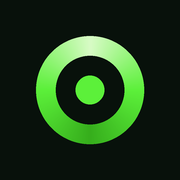
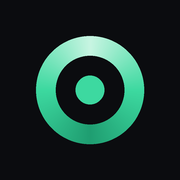
style: tone palette down to graphite + mint
Neutral graphite surfaces replace the green-tinted ones and a soft mint
accent replaces the neon green; glows are toned down. Layout, components
and chart encodings are unchanged; income/spending still pass the CVD check.

Claude-Session: https://claude.ai/code/session_01R85EYwazABK3qBrDVakCnf

Changed region(s): [[0.1944, 0.1944, 0.8056, 0.8056], [0.4167, 0.4167, 0.5833, 0.5833]]

diff --git a/frontend/src/pages/LandingPage.tsx b/frontend/src/pages/LandingPage.tsx
@@ -105,7 +105,7 @@ function Pill({ children, tone = 'dark' }: { children: ReactNode; tone?: 'dark' 
         tone === 'dark' ? 'border border-line-strong bg-surface-2/70 text-text-secondary backdrop-blur' : 'bg-forest/8 text-forest/70'
       )}
     >
-      <span className="h-1.5 w-1.5 rounded-full bg-primary-500 shadow-[0_0_8px_#5cf03a]" />
+      <span className="h-1.5 w-1.5 rounded-full bg-primary-500 shadow-[0_0_8px_#3dd9a0]" />
       {children}
     </span>
   )
@@ -124,7 +124,7 @@ function DashboardMock() {
         <span className="ml-3 rounded-full bg-surface-2 px-3 py-1 text-[10px] text-text-tertiary">pennywise.app/dashboard</span>
       </div>
       <div className="grid gap-3 p-4 sm:grid-cols-3 sm:p-5">
-        <div className="rounded-2xl bg-[radial-gradient(120%_120%_at_100%_0%,rgba(92,240,58,0.2),transparent_55%),var(--color-surface-2)] p-4 sm:col-span-2">
+        <div className="rounded-2xl bg-[radial-gradient(120%_120%_at_100%_0%,rgba(61,217,160,0.2),transparent_55%),var(--color-surface-2)] p-4 sm:col-span-2">
           <p className="text-[10px] uppercase tracking-widest text-text-tertiary">Net cash flow · October</p>
           <p className="display mt-1 text-4xl text-text-primary sm:text-5xl">+$1,847</p>
           <div className="mt-3 flex gap-2 text-[10px]">
@@ -133,7 +133,7 @@ function DashboardMock() {
           </div>
           <div className="mt-4 flex h-20 items-end gap-1.5">
             {bars.map((h, i) => (
-              <div key={i} className="flex-1 rounded-t-[4px]" style={{ height: `${h}%`, background: i === bars.length - 1 ? '#5cf03a' : 'var(--color-line-strong)' }} />
+              <div key={i} className="flex-1 rounded-t-[4px]" style={{ height: `${h}%`, background: i === bars.length - 1 ? '#3dd9a0' : 'var(--color-line-strong)' }} />
             ))}
           </div>
         </div>
@@ -141,7 +141,7 @@ function DashboardMock() {
           <div className="relative h-24 w-24">
             <svg viewBox="0 0 100 100" className="-rotate-90">
               <circle cx="50" cy="50" r="42" stroke="var(--color-surface-3)" strokeWidth="9" fill="none" />
-              <circle cx="50" cy="50" r="42" stroke="#5cf03a" strokeWidth="9" fill="none" strokeLinecap="round" strokeDasharray="264" strokeDashoffset="58" style={{ filter: 'drop-shadow(0 0 6px #5cf03a88)' }} />
+              <circle cx="50" cy="50" r="42" stroke="#3dd9a0" strokeWidth="9" fill="none" strokeLinecap="round" strokeDasharray="264" strokeDashoffset="58" style={{ filter: 'drop-shadow(0 0 6px #3dd9a088)' }} />
             </svg>
             <span className="display absolute inset-0 flex items-center justify-center text-3xl text-text-primary">78</span>
           </div>
@@ -210,13 +210,13 @@ function LifecycleMock({ kind }: { kind: (typeof LIFECYCLE)[number]['mock'] }) {
   return (
     <div className="rounded-2xl bg-surface-2 p-4">
       <svg viewBox="0 0 240 110" className="w-full">
-        <path d="M10 85 L50 78 L90 74 L130 66 L170 60" stroke="#5cf03a" strokeWidth="2.5" fill="none" strokeLinecap="round" />
-        <path d="M170 60 L220 48 L220 30 L170 60 L220 66 Z" fill="#5cf03a" opacity="0.14" />
-        <path d="M170 60 L220 48" stroke="#5cf03a" strokeWidth="2.5" strokeDasharray="5 5" />
+        <path d="M10 85 L50 78 L90 74 L130 66 L170 60" stroke="#3dd9a0" strokeWidth="2.5" fill="none" strokeLinecap="round" />
+        <path d="M170 60 L220 48 L220 30 L170 60 L220 66 Z" fill="#3dd9a0" opacity="0.14" />
+        <path d="M170 60 L220 48" stroke="#3dd9a0" strokeWidth="2.5" strokeDasharray="5 5" />
         {[10, 50, 90, 130, 170].map((x, i) => (
-          <circle key={x} cx={x} cy={[85, 78, 74, 66, 60][i]} r="3.5" fill="#5cf03a" />
+          <circle key={x} cx={x} cy={[85, 78, 74, 66, 60][i]} r="3.5" fill="#3dd9a0" />
         ))}
-        <circle cx="220" cy="48" r="5" fill="#08110b" stroke="#5cf03a" strokeWidth="2.5" />
+        <circle cx="220" cy="48" r="5" fill="#0b0c0f" stroke="#3dd9a0" strokeWidth="2.5" />
       </svg>
       <p className="display mt-1 text-3xl text-text-primary">$2,775</p>
       <p className="text-[11px] text-text-tertiary">November forecast · likely $2,377 – $3,173</p>
@@ -317,7 +317,7 @@ export function LandingPage() {
             <Pill>AI-powered personal finance · free</Pill>
           </div>
           <h1 className="display animate-fade-up mx-auto mt-6 max-w-5xl text-[56px] text-text-primary [animation-delay:80ms] sm:text-[88px] lg:text-[112px]">
-            Managing money in the age of <span className="text-primary-500 drop-shadow-[0_0_30px_rgba(92,240,58,0.45)]">AI</span>
+            Managing money in the age of <span className="text-primary-500 drop-shadow-[0_0_30px_rgba(61,217,160,0.45)]">AI</span>
           </h1>
           <p className="animate-fade-up mx-auto mt-6 max-w-xl text-base leading-relaxed text-text-secondary [animation-delay:160ms] sm:text-lg">
             Track spending and income, set budgets that know your pace, and see next month before it happens — with an assistant that explains every number.
@@ -356,7 +356,7 @@ export function LandingPage() {
 
       {/* ─── Meet Penny ─── */}
       <section id="penny" className="relative overflow-hidden px-5 py-28">
-        <div className="pointer-events-none absolute inset-0 bg-[radial-gradient(50%_40%_at_50%_30%,rgba(92,240,58,0.12),transparent_70%)]" />
+        <div className="pointer-events-none absolute inset-0 bg-[radial-gradient(50%_40%_at_50%_30%,rgba(61,217,160,0.12),transparent_70%)]" />
         <Reveal className="relative mx-auto max-w-6xl text-center">
           <Orb className="animate-float mx-auto w-48 sm:w-60" />
           <h2 className="display mt-12 text-5xl text-text-primary sm:text-7xl">
@@ -387,7 +387,7 @@ export function LandingPage() {
               </div>
             ))}
           </div>
-          <div className="flex flex-col justify-between rounded-[var(--radius-3xl)] border border-line bg-[radial-gradient(120%_100%_at_0%_100%,rgba(92,240,58,0.18),transparent_60%),var(--color-surface)] p-6">
+          <div className="flex flex-col justify-between rounded-[var(--radius-3xl)] border border-line bg-[radial-gradient(120%_100%_at_0%_100%,rgba(61,217,160,0.18),transparent_60%),var(--color-surface)] p-6">
             <div>
               <div className="flex items-center gap-2">
                 <LogoMark className="h-6 w-6" />
@@ -517,11 +517,11 @@ export function LandingPage() {
         <Reveal className="mx-auto max-w-6xl">
           <div className="relative overflow-hidden rounded-[var(--radius-3xl)] bg-primary-200 p-8 text-forest sm:p-14">
             <svg className="pointer-events-none absolute -right-10 top-0 h-full opacity-60" viewBox="0 0 300 300" fill="none" aria-hidden>
-              <circle cx="200" cy="150" r="120" stroke="#0b1a0f" strokeWidth="2" />
-              <circle cx="200" cy="150" r="80" stroke="#0b1a0f" strokeWidth="2" />
-              <circle cx="320" cy="150" r="10" fill="#0b1a0f" />
-              <circle cx="200" cy="30" r="10" fill="#0b1a0f" />
-              <circle cx="120" cy="150" r="10" fill="#0b1a0f" />
+              <circle cx="200" cy="150" r="120" stroke="#0d1b17" strokeWidth="2" />
+              <circle cx="200" cy="150" r="80" stroke="#0d1b17" strokeWidth="2" />
+              <circle cx="320" cy="150" r="10" fill="#0d1b17" />
+              <circle cx="200" cy="30" r="10" fill="#0d1b17" />
+              <circle cx="120" cy="150" r="10" fill="#0d1b17" />
             </svg>
             <div className="relative max-w-xl">
               <h2 className="display text-5xl sm:text-6xl">Built for the web today, iPhone next</h2>

diff --git a/frontend/src/index.css b/frontend/src/index.css
@@ -1,43 +1,43 @@
 @import "tailwindcss";
 
 /*
- * PennyWise design tokens — "forest + neon" (inspired by tomorro.com):
- * deep green-black surfaces, a single neon-green accent, heavy condensed uppercase display type,
+ * PennyWise design tokens — "graphite + mint" (layout language inspired by tomorro.com):
+ * neutral graphite surfaces, a single soft-mint accent, heavy condensed uppercase display type,
  * pill buttons, glowing ring "orbs", and cream contrast sections.
  */
 @theme {
-  /* Accent — neon green */
-  --color-primary-50: #f0feea;
-  --color-primary-100: #d8fbc6;
-  --color-primary-200: #b8f7a0;
-  --color-primary-300: #8ff46e;
-  --color-primary-400: #74f250;
-  --color-primary-500: #5cf03a;
-  --color-primary-600: #47d628;
-  --color-primary-700: #36ae1c;
-  --color-primary-800: #267a14;
-  --color-primary-900: #12380b;
+  /* Accent — soft mint */
+  --color-primary-50: #ecfbf5;
+  --color-primary-100: #d3f6e8;
+  --color-primary-200: #c8f5e2;
+  --color-primary-300: #8eebc8;
+  --color-primary-400: #62e2b3;
+  --color-primary-500: #3dd9a0;
+  --color-primary-600: #2cc48d;
+  --color-primary-700: #1f9e71;
+  --color-primary-800: #16714f;
+  --color-primary-900: #0b3a29;
 
-  /* Surfaces — forest black */
-  --color-bg: #08110b;
-  --color-surface: #0e1a12;
-  --color-surface-2: #142419;
-  --color-surface-3: #1b2f21;
-  --color-line: #1f3526;
-  --color-line-strong: #2c4834;
+  /* Surfaces — neutral graphite */
+  --color-bg: #0b0c0f;
+  --color-surface: #121418;
+  --color-surface-2: #191b20;
+  --color-surface-3: #20232a;
+  --color-line: #262a31;
+  --color-line-strong: #353a44;
 
   /* Light contrast sections */
   --color-cream: #f1f0e8;
   --color-cream-2: #e6e5da;
-  --color-forest: #0b1a0f;
+  --color-forest: #0d1b17;
 
   /* Text */
-  --color-text-primary: #f2f6ef;
-  --color-text-secondary: #a9b8ab;
-  --color-text-tertiary: #6f8274;
+  --color-text-primary: #f3f4f6;
+  --color-text-secondary: #a3a9b5;
+  --color-text-tertiary: #6c7380;
 
   /* Semantic */
-  --color-success-500: #5cf03a;
+  --color-success-500: #3dd9a0;
   --color-warning-500: #ffc24b;
   --color-warning-600: #e6a52a;
   --color-danger-400: #ff8a7d;
@@ -153,8 +153,8 @@
   50%      { transform: translateY(-10px); }
 }
 @keyframes pulse-ring {
-  0%   { box-shadow: 0 0 0 0 rgba(92, 240, 58, 0.45); }
-  100% { box-shadow: 0 0 0 14px rgba(92, 240, 58, 0); }
+  0%   { box-shadow: 0 0 0 0 rgba(61, 217, 160, 0.45); }
+  100% { box-shadow: 0 0 0 14px rgba(61, 217, 160, 0); }
 }
 
 /* ─── Animation utilities ─── */
@@ -222,7 +222,7 @@
 /* Soft green radial glow behind hero content */
 .glow-top {
   background:
-    radial-gradient(60% 50% at 50% 0%, rgba(92, 240, 58, 0.14) 0%, rgba(92, 240, 58, 0) 70%),
+    radial-gradient(60% 50% at 50% 0%, rgba(61, 217, 160, 0.09) 0%, rgba(61, 217, 160, 0) 70%),
     var(--color-bg);
 }
 
@@ -235,16 +235,16 @@
 .orb {
   border-radius: 9999px;
   background:
-    radial-gradient(circle at 50% 50%, #0b1a0f 52%, transparent 53%),
-    conic-gradient(from 0deg, #0b1a0f, #5cf03a 25%, #d8fbc6 32%, #36ae1c 45%, #0b1a0f 60%, #47d628 80%, #0b1a0f);
-  box-shadow: 0 0 60px rgba(92, 240, 58, 0.35), inset 0 0 40px rgba(0, 0, 0, 0.6);
+    radial-gradient(circle at 50% 50%, #111317 52%, transparent 53%),
+    conic-gradient(from 0deg, #111317, #3dd9a0 25%, #c8f5e2 32%, #1f9e71 45%, #111317 60%, #2cc48d 80%, #111317);
+  box-shadow: 0 0 50px rgba(61, 217, 160, 0.22), inset 0 0 40px rgba(0, 0, 0, 0.6);
 }
 .orb::before {
   content: '';
   position: absolute;
   inset: -18%;
   border-radius: 9999px;
-  background: radial-gradient(circle, rgba(92, 240, 58, 0.22), transparent 65%);
+  background: radial-gradient(circle, rgba(61, 217, 160, 0.14), transparent 65%);
   filter: blur(20px);
   z-index: -1;
 }

diff --git a/frontend/src/components/layout/AppLayout.tsx b/frontend/src/components/layout/AppLayout.tsx
@@ -64,7 +64,7 @@ export function AppLayout({ children }: { children: ReactNode }) {
   return (
     <div className="flex min-h-dvh bg-bg">
       {/* ─── Desktop sidebar ─── */}
-      <aside className="sticky top-0 hidden h-dvh w-64 flex-shrink-0 flex-col border-r border-line bg-[linear-gradient(180deg,#0c1a10_0%,var(--color-bg)_60%)] px-4 py-6 lg:flex">
+      <aside className="sticky top-0 hidden h-dvh w-64 flex-shrink-0 flex-col border-r border-line bg-[linear-gradient(180deg,#111317_0%,var(--color-bg)_60%)] px-4 py-6 lg:flex">
         <Logo to="/dashboard" className="px-2" />
 
         <Button className="mt-8 w-full" icon={<Plus className="h-4 w-4" strokeWidth={2.5} />} onClick={() => openAdd()}>
@@ -90,7 +90,7 @@ export function AppLayout({ children }: { children: ReactNode }) {
                 <>
                   <Icon className={cn('h-[18px] w-[18px]', isActive && 'text-primary-400')} />
                   {label}
-                  {isActive && <span className="ml-auto h-1.5 w-1.5 rounded-full bg-primary-500 shadow-[0_0_8px_#5cf03a]" />}
+                  {isActive && <span className="ml-auto h-1.5 w-1.5 rounded-full bg-primary-500 shadow-[0_0_8px_#3dd9a0]" />}
                 </>
               )}
             </NavLink>
@@ -160,7 +160,7 @@ export function AppLayout({ children }: { children: ReactNode }) {
             <button
               onClick={() => openAdd()}
               aria-label="Add transaction"
-              className="-mt-6 flex h-14 w-14 items-center justify-center rounded-full bg-primary-500 text-forest shadow-[0_10px_30px_-6px_rgba(92,240,58,0.7)] transition-transform active:scale-90"
+              className="-mt-6 flex h-14 w-14 items-center justify-center rounded-full bg-primary-500 text-forest shadow-[0_10px_30px_-6px_rgba(61,217,160,0.7)] transition-transform active:scale-90"
             >
               <Plus className="h-6 w-6" strokeWidth={2.75} />
             </button>

diff --git a/frontend/src/components/charts/theme.ts b/frontend/src/components/charts/theme.ts
@@ -1,20 +1,20 @@
 // Shared chart styling — recessive axes/grid, text in text tokens (never series colours).
 export const CHART = {
-  income: '#5cf03a',
+  income: '#3dd9a0',
   expense: '#d95926',
-  budget: '#a9b8ab',
-  grid: '#1f3526',
-  axis: { fontSize: 11, fill: '#6f8274' },
+  budget: '#a3a9b5',
+  grid: '#262a31',
+  axis: { fontSize: 11, fill: '#6c7380' },
   tooltip: {
-    backgroundColor: '#142419',
-    border: '1px solid #2c4834',
+    backgroundColor: '#191b20',
+    border: '1px solid #353a44',
     borderRadius: 12,
     boxShadow: '0 12px 30px rgba(0,0,0,0.45)',
-    color: '#f2f6ef',
+    color: '#f3f4f6',
     fontSize: 12,
     padding: '8px 12px',
   },
-  tooltipLabel: { color: '#a9b8ab', fontWeight: 600, marginBottom: 4 },
-  tooltipItem: { color: '#f2f6ef', padding: 0 },
-  cursor: { fill: 'rgba(92,240,58,0.06)' },
+  tooltipLabel: { color: '#a3a9b5', fontWeight: 600, marginBottom: 4 },
+  tooltipItem: { color: '#f3f4f6', padding: 0 },
+  cursor: { fill: 'rgba(61,217,160,0.06)' },
 }

diff --git a/frontend/src/components/charts/PaceChart.tsx b/frontend/src/components/charts/PaceChart.tsx
@@ -47,12 +47,12 @@ export function PaceChart({ data, currency }: { data: DashboardData; currency: s
           itemStyle={CHART.tooltipItem}
           labelFormatter={(l) => formatDate(String(l), { weekday: 'short', month: 'short', day: 'numeric' })}
           formatter={(v, name) => [formatCurrency(Number(v), currency), name === 'spent' ? 'Spent so far' : 'Even pace']}
-          cursor={{ stroke: '#2c4834' }}
+          cursor={{ stroke: '#353a44' }}
         />
         {target > 0 && (
           <Area type="linear" dataKey="pace" stroke={CHART.budget} strokeDasharray="5 5" strokeWidth={1.5} fill="none" dot={false} activeDot={false} isAnimationActive={false} />
         )}
-        {target > 0 && <ReferenceLine y={target} stroke="#2c4834" strokeDasharray="2 4" />}
+        {target > 0 && <ReferenceLine y={target} stroke="#353a44" strokeDasharray="2 4" />}
         <Area
           type="monotone"
           dataKey="spent"

diff --git a/frontend/src/components/ui/Logo.tsx b/frontend/src/components/ui/Logo.tsx
@@ -9,13 +9,13 @@ export function LogoMark({ className }: { className?: string }) {
     <svg viewBox="0 0 32 32" className={cn('h-8 w-8', className)} aria-hidden>
       <defs>
         <linearGradient id={id} x1="0" y1="0" x2="1" y2="1">
-          <stop offset="0" stopColor="#d8fbc6" />
-          <stop offset=".5" stopColor="#5cf03a" />
-          <stop offset="1" stopColor="#36ae1c" />
+          <stop offset="0" stopColor="#c8f5e2" />
+          <stop offset=".5" stopColor="#3dd9a0" />
+          <stop offset="1" stopColor="#1f9e71" />
         </linearGradient>
       </defs>
       <circle cx="16" cy="16" r="11" fill="none" stroke={`url(#${id})`} strokeWidth="4.5" />
-      <circle cx="16" cy="16" r="3.2" fill="#5cf03a" />
+      <circle cx="16" cy="16" r="3.2" fill="#3dd9a0" />
     </svg>
   )
 }

diff --git a/frontend/src/pages/SettingsPage.tsx b/frontend/src/pages/SettingsPage.tsx
@@ -31,7 +31,7 @@ import type { Category, TxType } from '@/types'
 
 const PRESET_ICONS = ['🍔', '🚌', '🛍', '🎬', '📄', '💊', '💰', '🏠', '✈', '📱', '🎮', '☕', '🛒', '🏋', '📚', '🎁', '💼', '💻', '🐶', '👶', '🎓', '⛽', '🍺', '💡']
 // Categorical order validated for colour-vision deficiency on the dark surface
-const PRESET_COLORS = ['#3987e5', '#d95926', '#199e70', '#c98500', '#d55181', '#9085e9', '#5cf03a', '#e66767', '#8a958c']
+const PRESET_COLORS = ['#3987e5', '#d95926', '#199e70', '#c98500', '#d55181', '#9085e9', '#3dd9a0', '#e66767', '#8a958c']
 
 type CatForm = { open: boolean; editing: Category | null; name: string; icon: string; color: string; type: TxType }
 

diff --git a/frontend/src/components/charts/ForecastChart.tsx b/frontend/src/components/charts/ForecastChart.tsx
@@ -32,7 +32,7 @@ export function ForecastChart({ prediction, currency }: { prediction: Prediction
             if (name === 'band' && Array.isArray(v)) return [`${formatCurrency(v[0], currency)} – ${formatCurrency(v[1], currency)}`, 'Likely range']
             return [formatCurrency(Number(v), currency), name === 'actual' ? 'Spent' : 'Forecast']
           }}
-          cursor={{ stroke: '#2c4834' }}
+          cursor={{ stroke: '#353a44' }}
         />
         <Area dataKey="band" stroke="none" fill={CHART.income} fillOpacity={0.12} isAnimationActive={false} />
         <Line dataKey="actual" stroke={CHART.income} strokeWidth={2} dot={{ r: 3.5, fill: CHART.income, strokeWidth: 0 }} activeDot={{ r: 5 }} />

diff --git a/frontend/src/components/ui/Button.tsx b/frontend/src/components/ui/Button.tsx
@@ -15,7 +15,7 @@ interface ButtonProps extends ButtonHTMLAttributes<HTMLButtonElement> {
 
 const variants: Record<ButtonVariant, string> = {
   primary:
-    'bg-primary-500 text-forest hover:bg-primary-400 shadow-[0_0_0_0_rgba(92,240,58,0)] hover:shadow-[0_8px_30px_-6px_rgba(92,240,58,0.55)]',
+    'bg-primary-500 text-forest hover:bg-primary-400 shadow-[0_0_0_0_rgba(61,217,160,0)] hover:shadow-[0_8px_30px_-6px_rgba(61,217,160,0.55)]',
   secondary: 'bg-surface-3 text-text-primary hover:bg-line-strong',
   outline: 'border border-line-strong text-text-primary hover:border-primary-500 hover:text-primary-400',
   ghost: 'text-text-secondary hover:bg-surface-3 hover:text-text-primary',

diff --git a/frontend/index.html b/frontend/index.html
@@ -5,7 +5,7 @@
     <meta name="viewport" content="width=device-width, initial-scale=1.0, viewport-fit=cover" />
     <title>PennyWise — AI Personal Finance</title>
     <meta name="description" content="Track spending and income, set smart budgets and get AI forecasts and insights. Free, private, and built for every device." />
-    <meta name="theme-color" content="#08110b" />
+    <meta name="theme-color" content="#0b0c0f" />
     <link rel="icon" type="image/svg+xml" href="/favicon.svg" />
     <link rel="manifest" href="/manifest.webmanifest" />
     <link rel="apple-touch-icon" href="/apple-touch-icon.png" />

diff --git a/frontend/src/pages/BudgetPage.tsx b/frontend/src/pages/BudgetPage.tsx
@@ -374,7 +374,7 @@ export function BudgetPage() {
                       type="checkbox"
                       checked={pick.on}
                       onChange={(e) => setReview((r) => ({ ...r, picks: { ...r.picks, [s.categoryId]: { ...pick, on: e.target.checked } } }))}
-                      className="h-4 w-4 flex-shrink-0 accent-[#5cf03a]"
+                      className="h-4 w-4 flex-shrink-0 accent-[#3dd9a0]"
                       aria-label={`Apply ${s.category}`}
                     />
                     <span className="flex-1 truncate font-semibold text-text-primary">

diff --git a/backend/src/services/category.service.ts b/backend/src/services/category.service.ts
@@ -9,7 +9,7 @@ const DEFAULT_CATEGORIES = [
   { name: 'Bills', icon: '📄', color: '#9085e9', type: 'expense' },
   { name: 'Health', icon: '💊', color: '#199e70', type: 'expense' },
   { name: 'Other', icon: '💰', color: '#8a958c', type: 'expense' },
-  { name: 'Salary', icon: '💼', color: '#5cf03a', type: 'income' },
+  { name: 'Salary', icon: '💼', color: '#3dd9a0', type: 'income' },
   { name: 'Freelance', icon: '💻', color: '#3987e5', type: 'income' },
   { name: 'Gifts & Other', icon: '🎁', color: '#c98500', type: 'income' },
 ]
